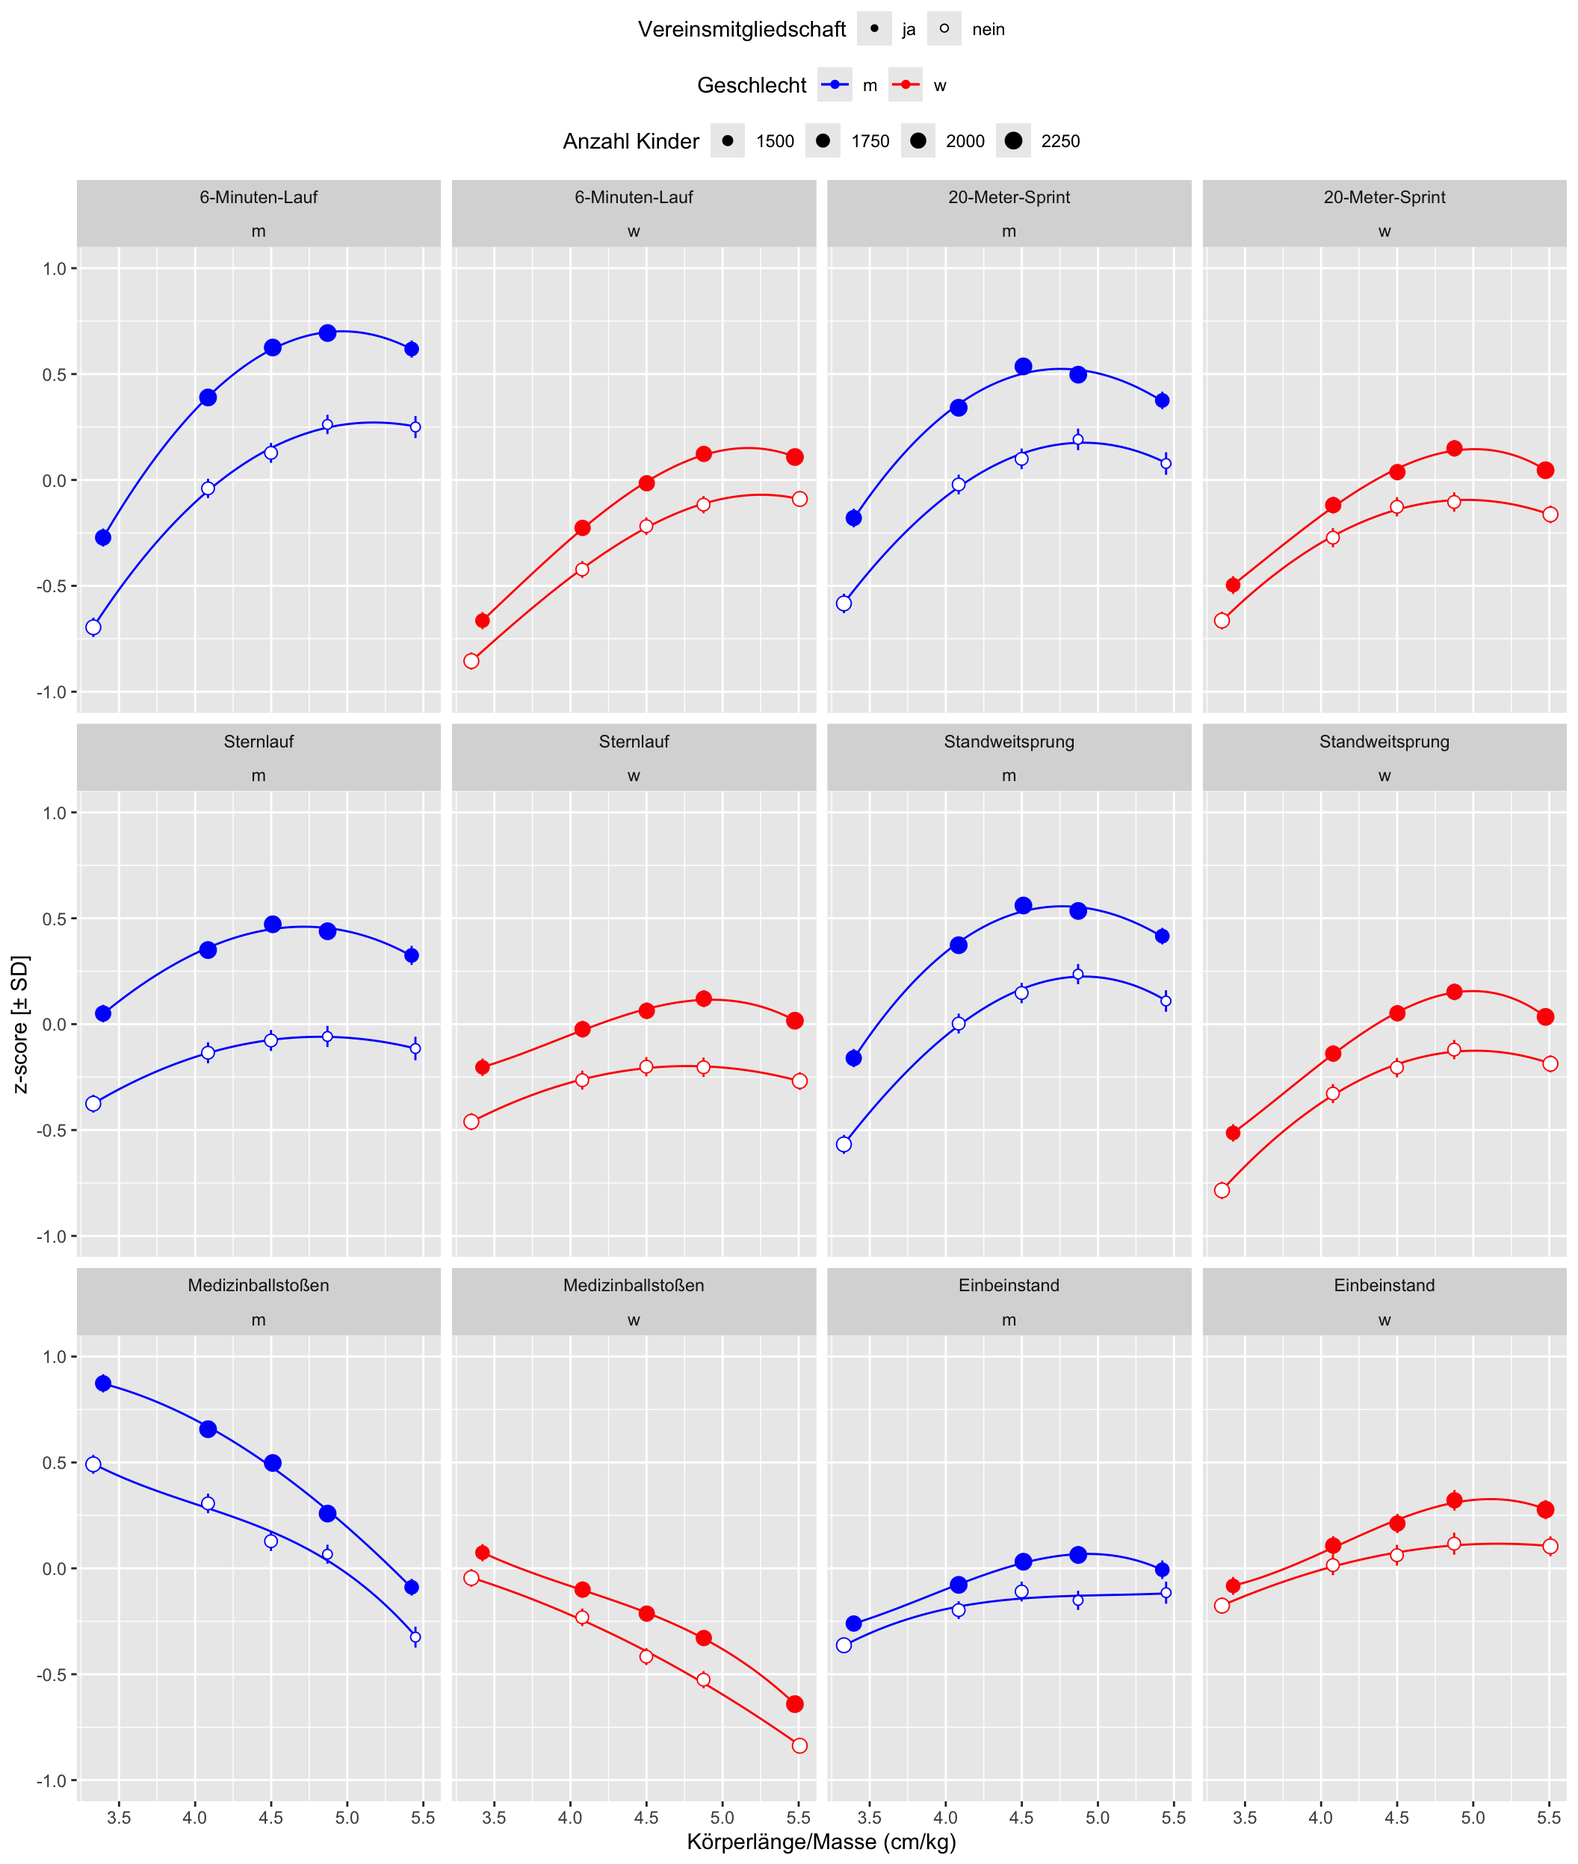
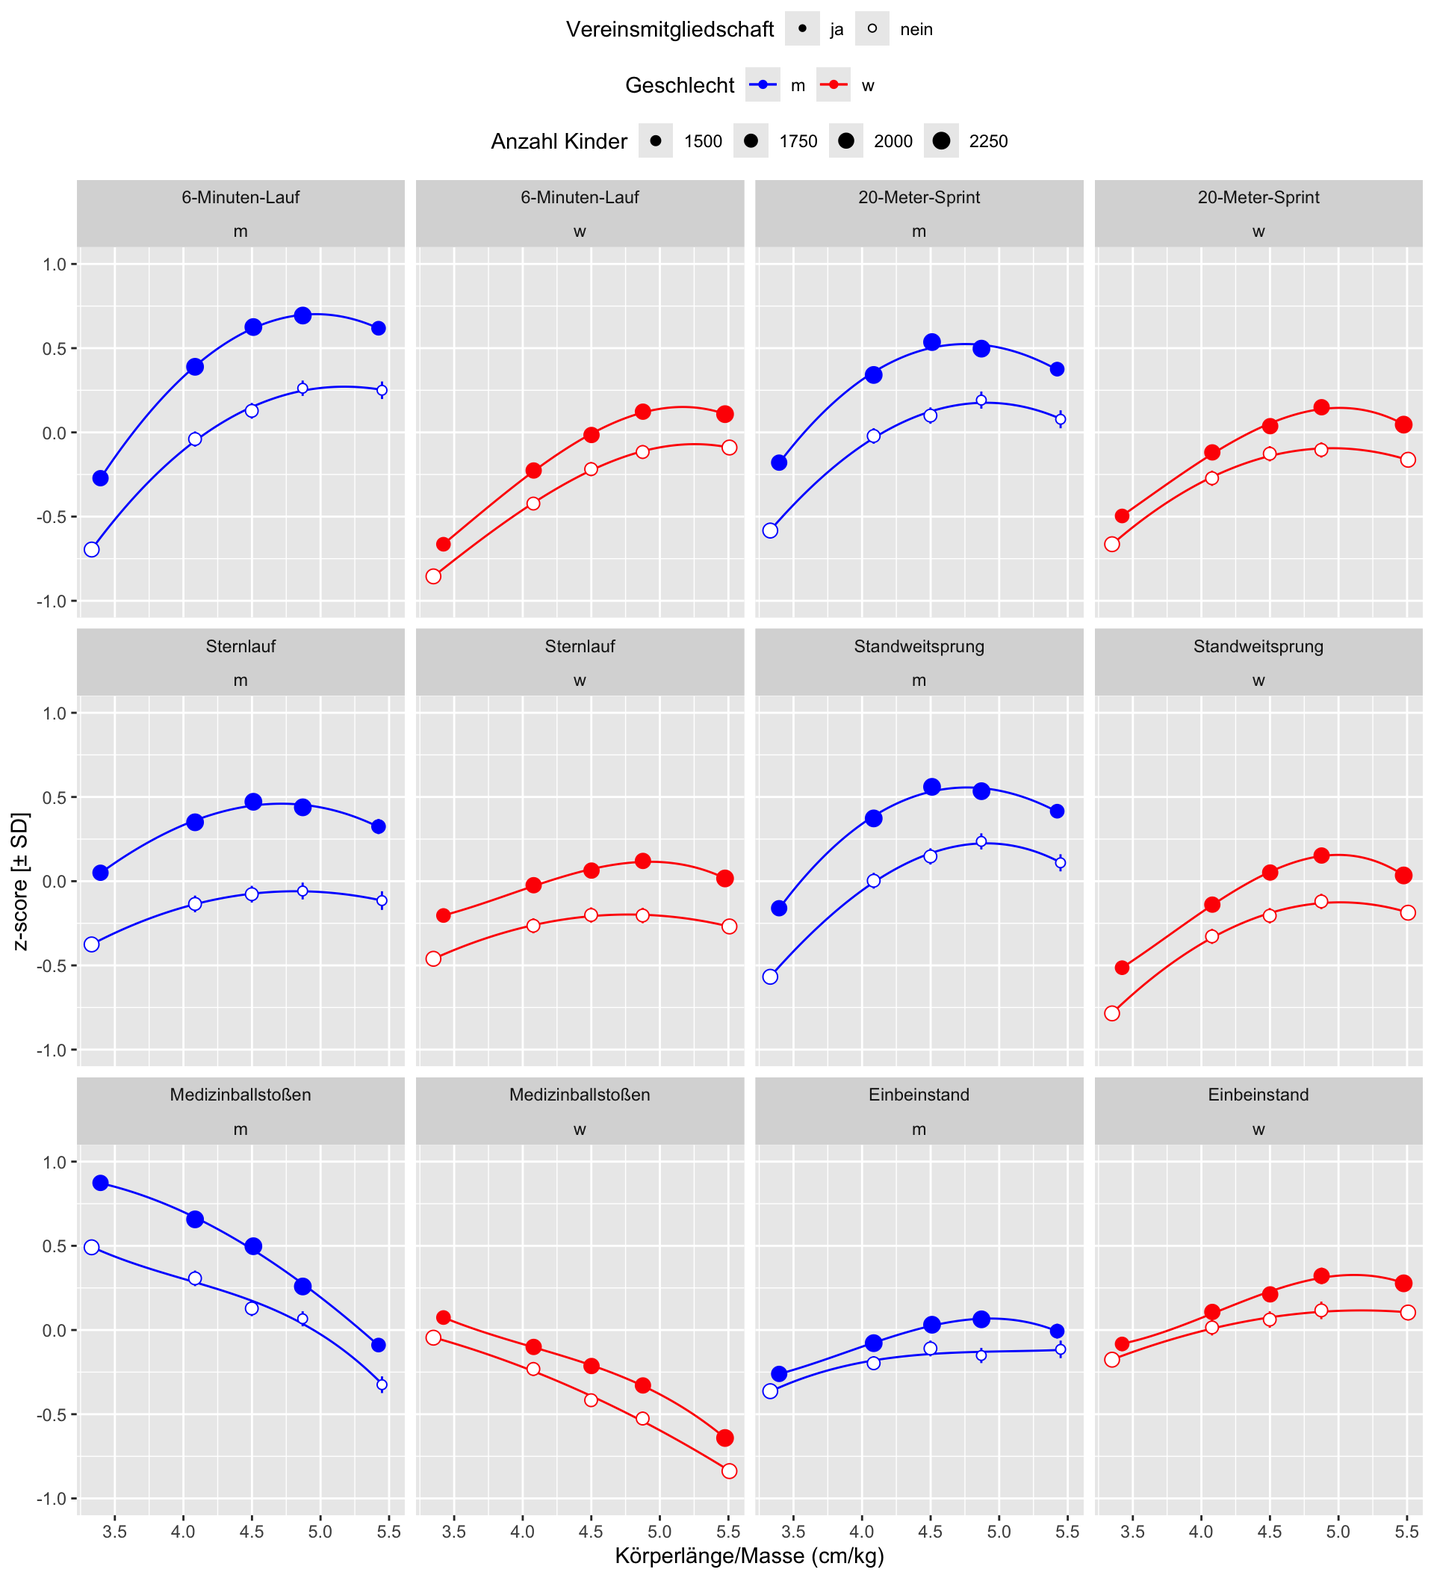
014

diff --git a/docs/014.html b/docs/014.html
@@ -290,7 +290,7 @@ ul.task-list li input[type="checkbox"] {
 <h2 class="anchored" data-anchor-id="vereinsmitgliedschaft-und-geschlecht">Vereinsmitgliedschaft und Geschlecht</h2>
 <div class="cell">
 <div class="cell-output-display">
-<p><img src="014_files/figure-html/unnamed-chunk-8-1.png" class="img-fluid" width="1056"></p>
+<p><img src="014_files/figure-html/unnamed-chunk-8-1.png" class="img-fluid" width="960"></p>
 </div>
 </div>
 </section>
@@ -299,8 +299,8 @@ ul.task-list li input[type="checkbox"] {
 <div class="cell">
 <div class="cell-output-display">
 
-<div class="reactable html-widget html-fill-item" id="htmlwidget-b54a4c765f9808059745" style="width:auto;height:auto;"></div>
-<script type="application/json" data-for="htmlwidget-b54a4c765f9808059745">{"x":{"tag":{"name":"Reactable","attribs":{"data":{"Component":["6-Minuten-Lauf","6-Minuten-Lauf","6-Minuten-Lauf","6-Minuten-Lauf","6-Minuten-Lauf","6-Minuten-Lauf","6-Minuten-Lauf","6-Minuten-Lauf","6-Minuten-Lauf","6-Minuten-Lauf","6-Minuten-Lauf","6-Minuten-Lauf","6-Minuten-Lauf","6-Minuten-Lauf","6-Minuten-Lauf","6-Minuten-Lauf","6-Minuten-Lauf","6-Minuten-Lauf","6-Minuten-Lauf","6-Minuten-Lauf","20-Meter-Sprint","20-Meter-Sprint","20-Meter-Sprint","20-Meter-Sprint","20-Meter-Sprint","20-Meter-Sprint","20-Meter-Sprint","20-Meter-Sprint","20-Meter-Sprint","20-Meter-Sprint","20-Meter-Sprint","20-Meter-Sprint","20-Meter-Sprint","20-Meter-Sprint","20-Meter-Sprint","20-Meter-Sprint","20-Meter-Sprint","20-Meter-Sprint","20-Meter-Sprint","20-Meter-Sprint","Sternlauf","Sternlauf","Sternlauf","Sternlauf","Sternlauf","Sternlauf","Sternlauf","Sternlauf","Sternlauf","Sternlauf","Sternlauf","Sternlauf","Sternlauf","Sternlauf","Sternlauf","Sternlauf","Sternlauf","Sternlauf","Sternlauf","Sternlauf","Standweitsprung","Standweitsprung","Standweitsprung","Standweitsprung","Standweitsprung","Standweitsprung","Standweitsprung","Standweitsprung","Standweitsprung","Standweitsprung","Standweitsprung","Standweitsprung","Standweitsprung","Standweitsprung","Standweitsprung","Standweitsprung","Standweitsprung","Standweitsprung","Standweitsprung","Standweitsprung","Medizinballstoßen","Medizinballstoßen","Medizinballstoßen","Medizinballstoßen","Medizinballstoßen","Medizinballstoßen","Medizinballstoßen","Medizinballstoßen","Medizinballstoßen","Medizinballstoßen","Medizinballstoßen","Medizinballstoßen","Medizinballstoßen","Medizinballstoßen","Medizinballstoßen","Medizinballstoßen","Medizinballstoßen","Medizinballstoßen","Medizinballstoßen","Medizinballstoßen","Einbeinstand","Einbeinstand","Einbeinstand","Einbeinstand","Einbeinstand","Einbeinstand","Einbeinstand","Einbeinstand","Einbeinstand","Einbeinstand","Einbeinstand","Einbeinstand","Einbeinstand","Einbeinstand","Einbeinstand","Einbeinstand","Einbeinstand","Einbeinstand","Einbeinstand","Einbeinstand"],"Sex":["m","m","m","m","m","m","m","m","m","m","w","w","w","w","w","w","w","w","w","w","m","m","m","m","m","m","m","m","m","m","w","w","w","w","w","w","w","w","w","w","m","m","m","m","m","m","m","m","m","m","w","w","w","w","w","w","w","w","w","w","m","m","m","m","m","m","m","m","m","m","w","w","w","w","w","w","w","w","w","w","m","m","m","m","m","m","m","m","m","m","w","w","w","w","w","w","w","w","w","w","m","m","m","m","m","m","m","m","m","m","w","w","w","w","w","w","w","w","w","w"],"Hmr":["[2.5,3.82]","[2.5,3.82]","(3.82,4.31]","(3.82,4.31]","(4.31,4.67]","(4.31,4.67]","(4.67,5.08]","(4.67,5.08]","(5.08,6.5]","(5.08,6.5]","[2.5,3.82]","[2.5,3.82]","(3.82,4.31]","(3.82,4.31]","(4.31,4.67]","(4.31,4.67]","(4.67,5.08]","(4.67,5.08]","(5.08,6.5]","(5.08,6.5]","[2.5,3.82]","[2.5,3.82]","(3.82,4.31]","(3.82,4.31]","(4.31,4.67]","(4.31,4.67]","(4.67,5.08]","(4.67,5.08]","(5.08,6.5]","(5.08,6.5]","[2.5,3.82]","[2.5,3.82]","(3.82,4.31]","(3.82,4.31]","(4.31,4.67]","(4.31,4.67]","(4.67,5.08]","(4.67,5.08]","(5.08,6.5]","(5.08,6.5]","[2.5,3.82]","[2.5,3.82]","(3.82,4.31]","(3.82,4.31]","(4.31,4.67]","(4.31,4.67]","(4.67,5.08]","(4.67,5.08]","(5.08,6.5]","(5.08,6.5]","[2.5,3.82]","[2.5,3.82]","(3.82,4.31]","(3.82,4.31]","(4.31,4.67]","(4.31,4.67]","(4.67,5.08]","(4.67,5.08]","(5.08,6.5]","(5.08,6.5]","[2.5,3.82]","[2.5,3.82]","(3.82,4.31]","(3.82,4.31]","(4.31,4.67]","(4.31,4.67]","(4.67,5.08]","(4.67,5.08]","(5.08,6.5]","(5.08,6.5]","[2.5,3.82]","[2.5,3.82]","(3.82,4.31]","(3.82,4.31]","(4.31,4.67]","(4.31,4.67]","(4.67,5.08]","(4.67,5.08]","(5.08,6.5]","(5.08,6.5]","[2.5,3.82]","[2.5,3.82]","(3.82,4.31]","(3.82,4.31]","(4.31,4.67]","(4.31,4.67]","(4.67,5.08]","(4.67,5.08]","(5.08,6.5]","(5.08,6.5]","[2.5,3.82]","[2.5,3.82]","(3.82,4.31]","(3.82,4.31]","(4.31,4.67]","(4.31,4.67]","(4.67,5.08]","(4.67,5.08]","(5.08,6.5]","(5.08,6.5]","[2.5,3.82]","[2.5,3.82]","(3.82,4.31]","(3.82,4.31]","(4.31,4.67]","(4.31,4.67]","(4.67,5.08]","(4.67,5.08]","(5.08,6.5]","(5.08,6.5]","[2.5,3.82]","[2.5,3.82]","(3.82,4.31]","(3.82,4.31]","(4.31,4.67]","(4.31,4.67]","(4.67,5.08]","(4.67,5.08]","(5.08,6.5]","(5.08,6.5]"],"Club":["ja","nein","ja","nein","ja","nein","ja","nein","ja","nein","ja","nein","ja","nein","ja","nein","ja","nein","ja","nein","ja","nein","ja","nein","ja","nein","ja","nein","ja","nein","ja","nein","ja","nein","ja","nein","ja","nein","ja","nein","ja","nein","ja","nein","ja","nein","ja","nein","ja","nein","ja","nein","ja","nein","ja","nein","ja","nein","ja","nein","ja","nein","ja","nein","ja","nein","ja","nein","ja","nein","ja","nein","ja","nein","ja","nein","ja","nein","ja","nein","ja","nein","ja","nein","ja","nein","ja","nein","ja","nein","ja","nein","ja","nein","ja","nein","ja","nein","ja","nein","ja","nein","ja","nein","ja","nein","ja","nein","ja","nein","ja","nein","ja","nein","ja","nein","ja","nein","ja","nein"],"N":[2042,1904,2357,1624,2495,1584,2344,1466,1945,1268,1813,1914,2114,1734,2178,1608,2165,1564,2374,1871,2042,1913,2355,1624,2498,1583,2348,1466,1946,1268,1814,1915,2113,1733,2178,1609,2168,1564,2375,1873,2045,1913,2357,1626,2497,1584,2350,1467,1945,1268,1814,1916,2113,1734,2178,1608,2168,1565,2375,1873,2044,1913,2357,1625,2498,1584,2349,1467,1947,1268,1814,1916,2114,1734,2177,1609,2168,1565,2374,1874,2043,1913,2356,1626,2497,1583,2349,1467,1947,1269,1814,1916,2113,1734,2178,1609,2168,1565,2375,1874,2045,1913,2357,1626,2498,1584,2350,1467,1947,1269,1814,1916,2114,1734,2178,1609,2168,1565,2375,1874],"value":[2.56,2.39,2.83,2.65,2.92,2.72,2.95,2.77,2.92,2.77,2.4,2.33,2.58,2.5,2.66,2.58,2.72,2.62,2.71,2.63,4.47,4.3,4.68,4.53,4.77,4.58,4.75,4.62,4.7,4.58,4.34,4.27,4.49,4.43,4.56,4.49,4.61,4.5,4.56,4.48,1.96,1.83,2.05,1.91,2.09,1.92,2.08,1.93,2.04,1.91,1.88,1.81,1.94,1.87,1.97,1.89,1.98,1.88,1.95,1.86,124.75,116.41,135.68,128.09,139.51,131.05,138.99,132.88,136.55,130.28,117.52,111.96,125.19,121.32,129.09,123.84,131.16,125.58,128.74,124.2,4.52,4.24,4.36,4.11,4.25,3.98,4.07,3.93,3.82,3.65,3.94,3.85,3.81,3.72,3.73,3.58,3.65,3.5,3.42,3.28,14.45,12.81,17.37,15.46,19.12,16.87,19.64,16.2,18.52,16.78,17.3,15.8,20.34,18.87,22.01,19.62,23.77,20.49,23.06,20.29],"value_sd":[0.39,0.41,0.39,0.37,0.37,0.38,0.37,0.36,0.37,0.38,0.35,0.37,0.34,0.34,0.34,0.34,0.33,0.33,0.34,0.33,0.42,0.42,0.4,0.4,0.39,0.41,0.37,0.41,0.38,0.4,0.38,0.38,0.38,0.4,0.38,0.39,0.39,0.38,0.38,0.38,0.29,0.28,0.3,0.31,0.31,0.3,0.31,0.29,0.31,0.3,0.27,0.27,0.28,0.29,0.28,0.28,0.29,0.28,0.29,0.28,20.3,20.45,19.96,19.75,19.07,20.07,18.35,19.13,18.03,18.89,18.24,18.69,18.85,19.44,18.96,19.18,19.19,18.79,18.33,18.36,0.72,0.73,0.72,0.69,0.68,0.68,0.66,0.64,0.65,0.65,0.65,0.67,0.65,0.64,0.63,0.6,0.6,0.6,0.58,0.58,13.03,11.8,15.15,13.72,16.25,15.22,16.68,14.09,15.78,15.14,14.66,13.67,16.66,16.14,17.43,16.12,18.53,16.79,17.94,16.59],"Component_unit":["m/s","m/s","m/s","m/s","m/s","m/s","m/s","m/s","m/s","m/s","m/s","m/s","m/s","m/s","m/s","m/s","m/s","m/s","m/s","m/s","m/s","m/s","m/s","m/s","m/s","m/s","m/s","m/s","m/s","m/s","m/s","m/s","m/s","m/s","m/s","m/s","m/s","m/s","m/s","m/s","m/s","m/s","m/s","m/s","m/s","m/s","m/s","m/s","m/s","m/s","m/s","m/s","m/s","m/s","m/s","m/s","m/s","m/s","m/s","m/s","cm","cm","cm","cm","cm","cm","cm","cm","cm","cm","cm","cm","cm","cm","cm","cm","cm","cm","cm","cm","m","m","m","m","m","m","m","m","m","m","m","m","m","m","m","m","m","m","m","m","s","s","s","s","s","s","s","s","s","s","s","s","s","s","s","s","s","s","s","s"],"zScore_mean":[-0.27,-0.7,0.39,-0.04,0.63,0.13,0.69,0.26,0.62,0.25,-0.66,-0.86,-0.23,-0.42,-0.02,-0.22,0.12,-0.12,0.11,-0.09,-0.18,-0.58,0.34,-0.02,0.54,0.1,0.5,0.19,0.38,0.08,-0.5,-0.66,-0.12,-0.27,0.04,-0.13,0.15,-0.1,0.05,-0.16,0.05,-0.38,0.35,-0.14,0.47,-0.08,0.44,-0.06,0.32,-0.12,-0.2,-0.46,-0.02,-0.26,0.06,-0.2,0.12,-0.2,0.02,-0.27,-0.16,-0.57,0.37,0,0.56,0.15,0.53,0.24,0.42,0.11,-0.51,-0.79,-0.14,-0.33,0.05,-0.21,0.15,-0.12,0.03,-0.19,0.87,0.49,0.66,0.31,0.5,0.13,0.26,0.07,-0.09,-0.32,0.07,-0.05,-0.1,-0.23,-0.21,-0.42,-0.33,-0.53,-0.64,-0.84,-0.26,-0.36,-0.08,-0.2,0.03,-0.11,0.06,-0.15,-0.01,-0.11,-0.08,-0.18,0.11,0.02,0.21,0.06,0.32,0.12,0.28,0.1]},"columns":[{"id":"Component","name":"Test","type":"factor"},{"id":"Sex","name":"Geschlecht","type":"character"},{"id":"Hmr","name":"Körperlänge/Masse (cm/kg) Intervall","type":"factor"},{"id":"Club","name":"Vereinsmitgliedschaft","type":"character"},{"id":"N","name":"Anzahl Kinder","type":"numeric"},{"id":"value","name":"Mittelwert","type":"numeric"},{"id":"value_sd","name":"Standardabweichung","type":"numeric"},{"id":"Component_unit","name":"Einheit","type":"factor"},{"id":"zScore_mean","name":"zScore","type":"numeric"}],"filterable":true,"pagination":false,"style":{"fontFamily":"Work Sans, sans-serif","fontSize":"0.75rem"},"dataKey":"6a8c4ce4464e33328e8c09a17133b22f"},"children":[]},"class":"reactR_markup"},"evals":[],"jsHooks":[]}</script>
+<div class="reactable html-widget html-fill-item" id="htmlwidget-c7b8e759713f93a8ee2c" style="width:auto;height:auto;"></div>
+<script type="application/json" data-for="htmlwidget-c7b8e759713f93a8ee2c">{"x":{"tag":{"name":"Reactable","attribs":{"data":{"Component":["6-Minuten-Lauf","6-Minuten-Lauf","6-Minuten-Lauf","6-Minuten-Lauf","6-Minuten-Lauf","6-Minuten-Lauf","6-Minuten-Lauf","6-Minuten-Lauf","6-Minuten-Lauf","6-Minuten-Lauf","6-Minuten-Lauf","6-Minuten-Lauf","6-Minuten-Lauf","6-Minuten-Lauf","6-Minuten-Lauf","6-Minuten-Lauf","6-Minuten-Lauf","6-Minuten-Lauf","6-Minuten-Lauf","6-Minuten-Lauf","20-Meter-Sprint","20-Meter-Sprint","20-Meter-Sprint","20-Meter-Sprint","20-Meter-Sprint","20-Meter-Sprint","20-Meter-Sprint","20-Meter-Sprint","20-Meter-Sprint","20-Meter-Sprint","20-Meter-Sprint","20-Meter-Sprint","20-Meter-Sprint","20-Meter-Sprint","20-Meter-Sprint","20-Meter-Sprint","20-Meter-Sprint","20-Meter-Sprint","20-Meter-Sprint","20-Meter-Sprint","Sternlauf","Sternlauf","Sternlauf","Sternlauf","Sternlauf","Sternlauf","Sternlauf","Sternlauf","Sternlauf","Sternlauf","Sternlauf","Sternlauf","Sternlauf","Sternlauf","Sternlauf","Sternlauf","Sternlauf","Sternlauf","Sternlauf","Sternlauf","Standweitsprung","Standweitsprung","Standweitsprung","Standweitsprung","Standweitsprung","Standweitsprung","Standweitsprung","Standweitsprung","Standweitsprung","Standweitsprung","Standweitsprung","Standweitsprung","Standweitsprung","Standweitsprung","Standweitsprung","Standweitsprung","Standweitsprung","Standweitsprung","Standweitsprung","Standweitsprung","Medizinballstoßen","Medizinballstoßen","Medizinballstoßen","Medizinballstoßen","Medizinballstoßen","Medizinballstoßen","Medizinballstoßen","Medizinballstoßen","Medizinballstoßen","Medizinballstoßen","Medizinballstoßen","Medizinballstoßen","Medizinballstoßen","Medizinballstoßen","Medizinballstoßen","Medizinballstoßen","Medizinballstoßen","Medizinballstoßen","Medizinballstoßen","Medizinballstoßen","Einbeinstand","Einbeinstand","Einbeinstand","Einbeinstand","Einbeinstand","Einbeinstand","Einbeinstand","Einbeinstand","Einbeinstand","Einbeinstand","Einbeinstand","Einbeinstand","Einbeinstand","Einbeinstand","Einbeinstand","Einbeinstand","Einbeinstand","Einbeinstand","Einbeinstand","Einbeinstand"],"Sex":["m","m","m","m","m","m","m","m","m","m","w","w","w","w","w","w","w","w","w","w","m","m","m","m","m","m","m","m","m","m","w","w","w","w","w","w","w","w","w","w","m","m","m","m","m","m","m","m","m","m","w","w","w","w","w","w","w","w","w","w","m","m","m","m","m","m","m","m","m","m","w","w","w","w","w","w","w","w","w","w","m","m","m","m","m","m","m","m","m","m","w","w","w","w","w","w","w","w","w","w","m","m","m","m","m","m","m","m","m","m","w","w","w","w","w","w","w","w","w","w"],"Hmr":["[2.5,3.82]","[2.5,3.82]","(3.82,4.31]","(3.82,4.31]","(4.31,4.67]","(4.31,4.67]","(4.67,5.08]","(4.67,5.08]","(5.08,6.5]","(5.08,6.5]","[2.5,3.82]","[2.5,3.82]","(3.82,4.31]","(3.82,4.31]","(4.31,4.67]","(4.31,4.67]","(4.67,5.08]","(4.67,5.08]","(5.08,6.5]","(5.08,6.5]","[2.5,3.82]","[2.5,3.82]","(3.82,4.31]","(3.82,4.31]","(4.31,4.67]","(4.31,4.67]","(4.67,5.08]","(4.67,5.08]","(5.08,6.5]","(5.08,6.5]","[2.5,3.82]","[2.5,3.82]","(3.82,4.31]","(3.82,4.31]","(4.31,4.67]","(4.31,4.67]","(4.67,5.08]","(4.67,5.08]","(5.08,6.5]","(5.08,6.5]","[2.5,3.82]","[2.5,3.82]","(3.82,4.31]","(3.82,4.31]","(4.31,4.67]","(4.31,4.67]","(4.67,5.08]","(4.67,5.08]","(5.08,6.5]","(5.08,6.5]","[2.5,3.82]","[2.5,3.82]","(3.82,4.31]","(3.82,4.31]","(4.31,4.67]","(4.31,4.67]","(4.67,5.08]","(4.67,5.08]","(5.08,6.5]","(5.08,6.5]","[2.5,3.82]","[2.5,3.82]","(3.82,4.31]","(3.82,4.31]","(4.31,4.67]","(4.31,4.67]","(4.67,5.08]","(4.67,5.08]","(5.08,6.5]","(5.08,6.5]","[2.5,3.82]","[2.5,3.82]","(3.82,4.31]","(3.82,4.31]","(4.31,4.67]","(4.31,4.67]","(4.67,5.08]","(4.67,5.08]","(5.08,6.5]","(5.08,6.5]","[2.5,3.82]","[2.5,3.82]","(3.82,4.31]","(3.82,4.31]","(4.31,4.67]","(4.31,4.67]","(4.67,5.08]","(4.67,5.08]","(5.08,6.5]","(5.08,6.5]","[2.5,3.82]","[2.5,3.82]","(3.82,4.31]","(3.82,4.31]","(4.31,4.67]","(4.31,4.67]","(4.67,5.08]","(4.67,5.08]","(5.08,6.5]","(5.08,6.5]","[2.5,3.82]","[2.5,3.82]","(3.82,4.31]","(3.82,4.31]","(4.31,4.67]","(4.31,4.67]","(4.67,5.08]","(4.67,5.08]","(5.08,6.5]","(5.08,6.5]","[2.5,3.82]","[2.5,3.82]","(3.82,4.31]","(3.82,4.31]","(4.31,4.67]","(4.31,4.67]","(4.67,5.08]","(4.67,5.08]","(5.08,6.5]","(5.08,6.5]"],"Club":["ja","nein","ja","nein","ja","nein","ja","nein","ja","nein","ja","nein","ja","nein","ja","nein","ja","nein","ja","nein","ja","nein","ja","nein","ja","nein","ja","nein","ja","nein","ja","nein","ja","nein","ja","nein","ja","nein","ja","nein","ja","nein","ja","nein","ja","nein","ja","nein","ja","nein","ja","nein","ja","nein","ja","nein","ja","nein","ja","nein","ja","nein","ja","nein","ja","nein","ja","nein","ja","nein","ja","nein","ja","nein","ja","nein","ja","nein","ja","nein","ja","nein","ja","nein","ja","nein","ja","nein","ja","nein","ja","nein","ja","nein","ja","nein","ja","nein","ja","nein","ja","nein","ja","nein","ja","nein","ja","nein","ja","nein","ja","nein","ja","nein","ja","nein","ja","nein","ja","nein"],"N":[2042,1904,2357,1624,2495,1584,2344,1466,1945,1268,1813,1914,2114,1734,2178,1608,2165,1564,2374,1871,2042,1913,2355,1624,2498,1583,2348,1466,1946,1268,1814,1915,2113,1733,2178,1609,2168,1564,2375,1873,2045,1913,2357,1626,2497,1584,2350,1467,1945,1268,1814,1916,2113,1734,2178,1608,2168,1565,2375,1873,2044,1913,2357,1625,2498,1584,2349,1467,1947,1268,1814,1916,2114,1734,2177,1609,2168,1565,2374,1874,2043,1913,2356,1626,2497,1583,2349,1467,1947,1269,1814,1916,2113,1734,2178,1609,2168,1565,2375,1874,2045,1913,2357,1626,2498,1584,2350,1467,1947,1269,1814,1916,2114,1734,2178,1609,2168,1565,2375,1874],"value":[2.56,2.39,2.83,2.65,2.92,2.72,2.95,2.77,2.92,2.77,2.4,2.33,2.58,2.5,2.66,2.58,2.72,2.62,2.71,2.63,4.47,4.3,4.68,4.53,4.77,4.58,4.75,4.62,4.7,4.58,4.34,4.27,4.49,4.43,4.56,4.49,4.61,4.5,4.56,4.48,1.96,1.83,2.05,1.91,2.09,1.92,2.08,1.93,2.04,1.91,1.88,1.81,1.94,1.87,1.97,1.89,1.98,1.88,1.95,1.86,124.75,116.41,135.68,128.09,139.51,131.05,138.99,132.88,136.55,130.28,117.52,111.96,125.19,121.32,129.09,123.84,131.16,125.58,128.74,124.2,4.52,4.24,4.36,4.11,4.25,3.98,4.07,3.93,3.82,3.65,3.94,3.85,3.81,3.72,3.73,3.58,3.65,3.5,3.42,3.28,14.45,12.81,17.37,15.46,19.12,16.87,19.64,16.2,18.52,16.78,17.3,15.8,20.34,18.87,22.01,19.62,23.77,20.49,23.06,20.29],"value_sd":[0.39,0.41,0.39,0.37,0.37,0.38,0.37,0.36,0.37,0.38,0.35,0.37,0.34,0.34,0.34,0.34,0.33,0.33,0.34,0.33,0.42,0.42,0.4,0.4,0.39,0.41,0.37,0.41,0.38,0.4,0.38,0.38,0.38,0.4,0.38,0.39,0.39,0.38,0.38,0.38,0.29,0.28,0.3,0.31,0.31,0.3,0.31,0.29,0.31,0.3,0.27,0.27,0.28,0.29,0.28,0.28,0.29,0.28,0.29,0.28,20.3,20.45,19.96,19.75,19.07,20.07,18.35,19.13,18.03,18.89,18.24,18.69,18.85,19.44,18.96,19.18,19.19,18.79,18.33,18.36,0.72,0.73,0.72,0.69,0.68,0.68,0.66,0.64,0.65,0.65,0.65,0.67,0.65,0.64,0.63,0.6,0.6,0.6,0.58,0.58,13.03,11.8,15.15,13.72,16.25,15.22,16.68,14.09,15.78,15.14,14.66,13.67,16.66,16.14,17.43,16.12,18.53,16.79,17.94,16.59],"Component_unit":["m/s","m/s","m/s","m/s","m/s","m/s","m/s","m/s","m/s","m/s","m/s","m/s","m/s","m/s","m/s","m/s","m/s","m/s","m/s","m/s","m/s","m/s","m/s","m/s","m/s","m/s","m/s","m/s","m/s","m/s","m/s","m/s","m/s","m/s","m/s","m/s","m/s","m/s","m/s","m/s","m/s","m/s","m/s","m/s","m/s","m/s","m/s","m/s","m/s","m/s","m/s","m/s","m/s","m/s","m/s","m/s","m/s","m/s","m/s","m/s","cm","cm","cm","cm","cm","cm","cm","cm","cm","cm","cm","cm","cm","cm","cm","cm","cm","cm","cm","cm","m","m","m","m","m","m","m","m","m","m","m","m","m","m","m","m","m","m","m","m","s","s","s","s","s","s","s","s","s","s","s","s","s","s","s","s","s","s","s","s"],"zScore_mean":[-0.27,-0.7,0.39,-0.04,0.63,0.13,0.69,0.26,0.62,0.25,-0.66,-0.86,-0.23,-0.42,-0.02,-0.22,0.12,-0.12,0.11,-0.09,-0.18,-0.58,0.34,-0.02,0.54,0.1,0.5,0.19,0.38,0.08,-0.5,-0.66,-0.12,-0.27,0.04,-0.13,0.15,-0.1,0.05,-0.16,0.05,-0.38,0.35,-0.14,0.47,-0.08,0.44,-0.06,0.32,-0.12,-0.2,-0.46,-0.02,-0.26,0.06,-0.2,0.12,-0.2,0.02,-0.27,-0.16,-0.57,0.37,0,0.56,0.15,0.53,0.24,0.42,0.11,-0.51,-0.79,-0.14,-0.33,0.05,-0.21,0.15,-0.12,0.03,-0.19,0.87,0.49,0.66,0.31,0.5,0.13,0.26,0.07,-0.09,-0.32,0.07,-0.05,-0.1,-0.23,-0.21,-0.42,-0.33,-0.53,-0.64,-0.84,-0.26,-0.36,-0.08,-0.2,0.03,-0.11,0.06,-0.15,-0.01,-0.11,-0.08,-0.18,0.11,0.02,0.21,0.06,0.32,0.12,0.28,0.1]},"columns":[{"id":"Component","name":"Test","type":"factor"},{"id":"Sex","name":"Geschlecht","type":"character"},{"id":"Hmr","name":"Körperlänge/Masse (cm/kg) Intervall","type":"factor"},{"id":"Club","name":"Vereinsmitgliedschaft","type":"character"},{"id":"N","name":"Anzahl Kinder","type":"numeric"},{"id":"value","name":"Mittelwert","type":"numeric"},{"id":"value_sd","name":"Standardabweichung","type":"numeric"},{"id":"Component_unit","name":"Einheit","type":"factor"},{"id":"zScore_mean","name":"zScore","type":"numeric"}],"filterable":true,"pagination":false,"style":{"fontFamily":"Work Sans, sans-serif","fontSize":"0.75rem"},"dataKey":"6a8c4ce4464e33328e8c09a17133b22f"},"children":[]},"class":"reactR_markup"},"evals":[],"jsHooks":[]}</script>
 </div>
 </div>
 </section>
